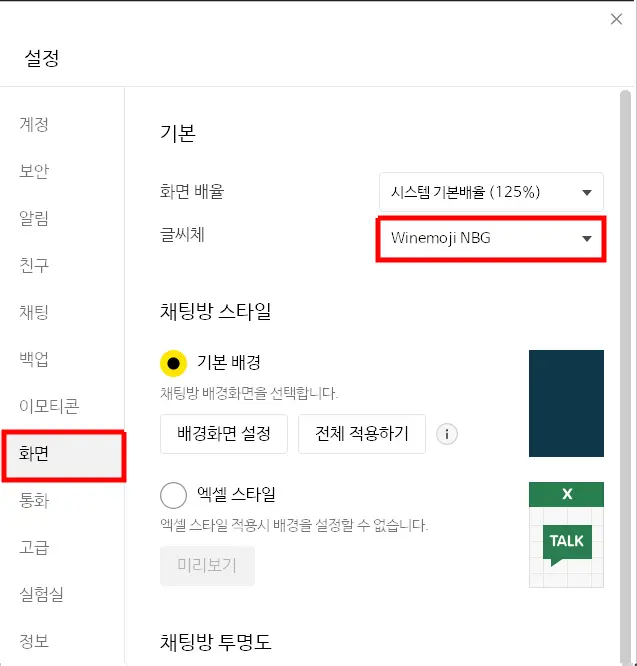
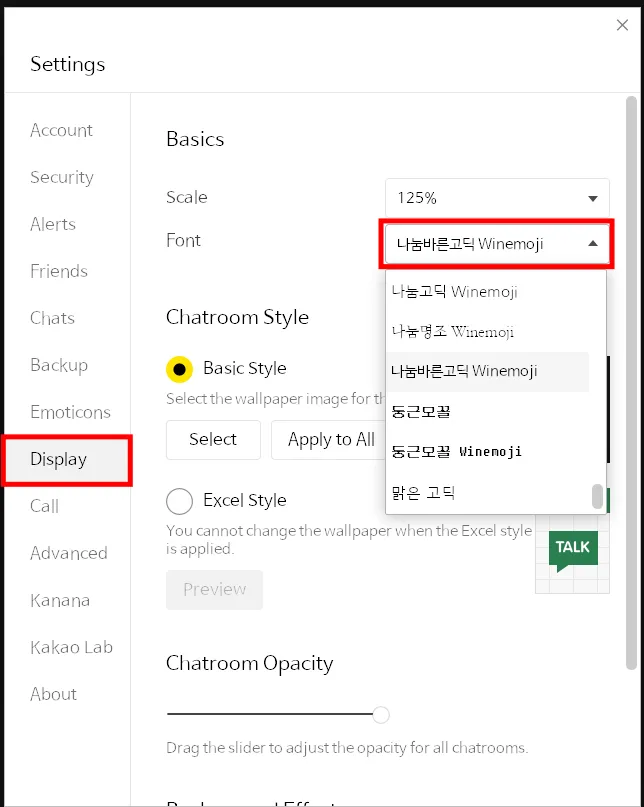
update README

diff --git a/README.md b/README.md
@@ -6,7 +6,7 @@
 
 ## Winemoji: Universal tool for resolving emoji rendering errors in Wine environments
 
-🍷😂 **Winemoji**는 리눅스의 Wine 환경에서 카카오톡과 같은 윈도우 앱을 사용할 때 이모지 폰트가 깨지는(tofu) 문제를 해결하기 위해 고안된 **자동화 폰트 빌더** 프로젝트입니다.
+🍷😂 **Winemoji**는 리눅스의 Wine 환경에서 카카오톡 등 윈도우 앱을 사용할 때 이모지 폰트가 깨지는(tofu) 문제를 해결하기 위해 고안된 **자동화 폰트 빌더** 프로젝트입니다.
 
 ***Winemoji** is an **automated font builder** project designed to solve the problem of emoji fonts breaking (tofu) when using Windows apps like KakaoTalk in a Wine environment on Linux.*
 
@@ -17,24 +17,22 @@
 
 리눅스의 GDI 렌더러가 지원하지 못하는 이모지 데이터를 분석하여, 어떤 폰트든 Wine 환경에서 이모지가 정상적으로 표시되도록 패치해 줍니다.
 
-추가로, 빌더를 직접 돌리기 번거로운 사용자들을 위해 저작권 문제로부터 자유로운 **10종의 한글 폰트 Pre-built 파일**도 함께 제공합니다.
-
 ## 1. 폰트만 바로 사용하기
 
 빌더를 직접 실행하지 않아도, 폰트만 적용할 수 있도록 저작권 이슈로부터 자유로운 한글 폰트 10종에 이모지를 미리 적용하여 `fonts/` 폴더에 담아두었습니다. (폰트 목록은 추후 업데이트를 통해 변경될 수 있음)
 
-### 제공되는 10종 폰트 목록
+### 제공되는 폰트 목록
 
 | 분류 | 폰트 이름 | 다운로드 링크 |
 | :--- | :--- | :--- |
-| **나눔 계열** | 나눔고딕 | [`NanumGothic-winemoji.ttf`](fonts/NanumGothic-winemoji.ttf) |
+| **나눔 폰트** | 나눔고딕 | [`NanumGothic-winemoji.ttf`](fonts/NanumGothic-winemoji.ttf) |
 | | 나눔명조 | [`NanumMyeongjo-winemoji.ttf`](fonts/NanumMyeongjo-winemoji.ttf) |
 | | 나눔바른고딕 | [`NanumBarunGothic-winemoji.ttf`](fonts/NanumBarunGothic-winemoji.ttf) |
 | **고딕 계열** | 프리텐다드 | [`Pretendard-Regular-winemoji.ttf`](fonts/Pretendard-Regular-winemoji.ttf) |
 | | IBM Plex Sans KR | [`IBMPlexSansKR-winemoji.ttf`](fonts/IBMPlexSansKR-winemoji.ttf) |
-| **개성있는 폰트** | 주아 | [`Jua-winemoji.ttf`](fonts/Jua-winemoji.ttf) |
+| **배민 폰트** | 주아 | [`Jua-winemoji.ttf`](fonts/Jua-winemoji.ttf) |
 | | 도현 | [`DoHyeon-winemoji.ttf`](fonts/DoHyeon-winemoji.ttf) |
-| | 해바라기 | [`Sunflower-winemoji.ttf`](fonts/Sunflower-winemoji.ttf) |
+| **개성있는 폰트** | 해바라기 | [`Sunflower-winemoji.ttf`](fonts/Sunflower-winemoji.ttf) |
 | | 고운돋움 | [`GowunDodum-winemoji.ttf`](fonts/GowunDodum-winemoji.ttf) |
 | | 검은고딕 | [`BlackHanSans-winemoji.ttf`](fonts/BlackHanSans-winemoji.ttf) |
 
@@ -80,7 +78,7 @@ curl -fsSL https://raw.githubusercontent.com/kmbzn/project-winemoji/main/install
 본 repository를 `git clone`한 후, 프로젝트 폴더 내부에서 아래 명령어를 실행하여 수동으로 설치합니다.
 ```bash
 git clone [email redacted]:kmbzn/project-winemoji.git
-cd project-winemoji/builder
+cd project-winemoji
 ./winemoji --install
 ```
 
@@ -134,22 +132,22 @@ winemoji -b /path/to/font.ttf -e /path/to/custom_emoji.ttf
 ## Why not color emojis?
 본 프로젝트에서는 컬러 이모지 계열을 사용하지 않고 흑백(Noto Emoji)을 채택했습니다.
 
-- **Wine GDI의 한계**: 이 프로젝트의 목표는 리눅스 Wine의 구형 GDI 렌더러 호환성 확보입니다. GDI는 최신 컬러 폰트 규격(`CBDT/CBLC`, `SBIX` 등)을 처리하지 못하며, 컬러 데이터를 강제로 병합할 경우 폰트 자체가 인식되지 않거나 카카오톡 등 윈도우 프로그램이 마비되는 문제가 발생할 수 있습니다.
+- **Wine GDI의 한계**: 이 프로젝트의 목표는 리눅스 Wine의 GDI 렌더러 호환성 확보입니다. GDI는 최신 컬러 폰트 규격(`CBDT/CBLC`, `SBIX` 등)을 처리하지 못하며, 컬러 데이터를 강제로 병합할 경우 폰트 자체가 인식되지 않거나 카카오톡 등 윈도우 프로그램이 마비되는 문제가 발생할 수 있습니다.
 
 - **렌더링 안정성**: 흑백 outline 폰트는 폰트 크기나 해상도에 관계없이 벡터 방식으로 선명하게 렌더링됩니다. 이는 비트맵 정보가 포함된 컬러 이모지보다 저해상도 Wine 환경에서 보다 높은 가독성과 안정성을 제공합니다.
 
-- **파일 최적화 및 복잡성 제거**: 컬러 레이어를 병합하는 과정은 폰트 파일의 용량을 증가시키며, 수동으로 크기를 조절하는 과정에서 데이터가 손실될 위험이 존재합니다. 본 프로젝트는 실용성과 문제 해결에 집중하기 위해 상대적인 안정적인 흑백 폰트를 소스로 채택했습니다. 실제 Windows PC 카카오톡도 흑백 이모지만 지원하고 있습니다.
+- **파일 최적화 및 복잡성 제거**: 컬러 레이어를 병합하는 과정은 폰트 파일의 용량을 증가시키며, 수동으로 크기를 조절하는 과정에서 데이터가 손실될 위험이 존재합니다. 본 프로젝트는 실용성과 문제 해결에 집중하기 위해 안정적인 흑백 폰트를 소스로 채택했습니다. 실제 Windows PC 카카오톡도 흑백 이모지만 지원하고 있습니다.
 
 ## 구현 원리
 Winemoji Builder는 카카오톡(Wine GDI)에서 렌더링 오류를 일으키는 원인들을 완벽하게 해결하는 구조를 가지고 있습니다.
 
 1. **Low Surrogate 매핑 (`U+DC00` ~ `U+DFFF`)**: Wine GDI는 Plane 1 이상의 이모지를 제대로 그리지 못하고 두 개의 Surrogate 문자로 분리하여 출력합니다. Winemoji는 원본 이모지를 Low Surrogate 영역에 매핑하여 이모지 깨짐 현상을 해결합니다.
-2. **충돌 방지**: Surrogate 영역 공간 한계(1,024개)로 인해 발생하는 충돌을 막기 위해, 한국인이 주로 쓰는 얼굴 표정이나 손동작 등에 높은 가중치를 두어 중요한 이모지들이 반영될 수 있도록 합니다.
+2. **충돌 방지**: Surrogate 영역 공간 한계(1,024개)로 인해 발생하는 충돌을 막기 위해, 한국 사용자들이 주로 쓰는 얼굴 표정이나 손동작 등에 높은 가중치를 두어 중요한 이모지들이 반영될 수 있도록 합니다.
 3. **국기 및 Ligature 지원**:
    - `GSUB`, `GDEF` 등 폰트 테이블을 유지시켜, **국기 이모지(🇰🇷)처럼 2개의 글자가 조합되어 만들어지는 이모지**도 완벽하게 지원합니다.
    - 국기 조합용 알파벳(Regional Indicators)은 가로세로 비율을 유지한 채 60% 크기로 스케일링하고, 폰트 사이에 빈 공간이 생기지 않도록 Kerning을 적용했습니다.
 4. **High Surrogate 공백 제거**:
-   - 렌더링 과정에서 발생하는 High Surrogate 문자들을 막기 위해, **Advance Width가 0인 투명 glyph**를 생성하여 덮어씌웁니다. 이모지 옆에 띄어쓰기 한 칸이 강제로 벌어지는 현상이 해결됩니다.
+   - High Surrogate 문자들의 렌더링을 막기 위해, **Advance Width가 0인 투명 glyph**를 생성하여 덮어씌웁니다. 이로써 이모지 앞에 띄어쓰기 한 칸이 벌어지는 현상이 해결됩니다.
 5. **Auto-Scaling 및 Fallback 시스템**:
    - 베이스 폰트의 해상도(UPEM)를 감지하고, 이모지 폰트의 모든 벡터 좌표를 이에 맞게 auto-scaling합니다.
    - 폰트 병합 중 `fontTools` 자체 문제로 인해 에러가 발생할 경우, 백그라운드에서 이를 감지하고 에러를 유발하는 테이블을 분리한 뒤 자동으로 fallback하도록 구성했습니다.